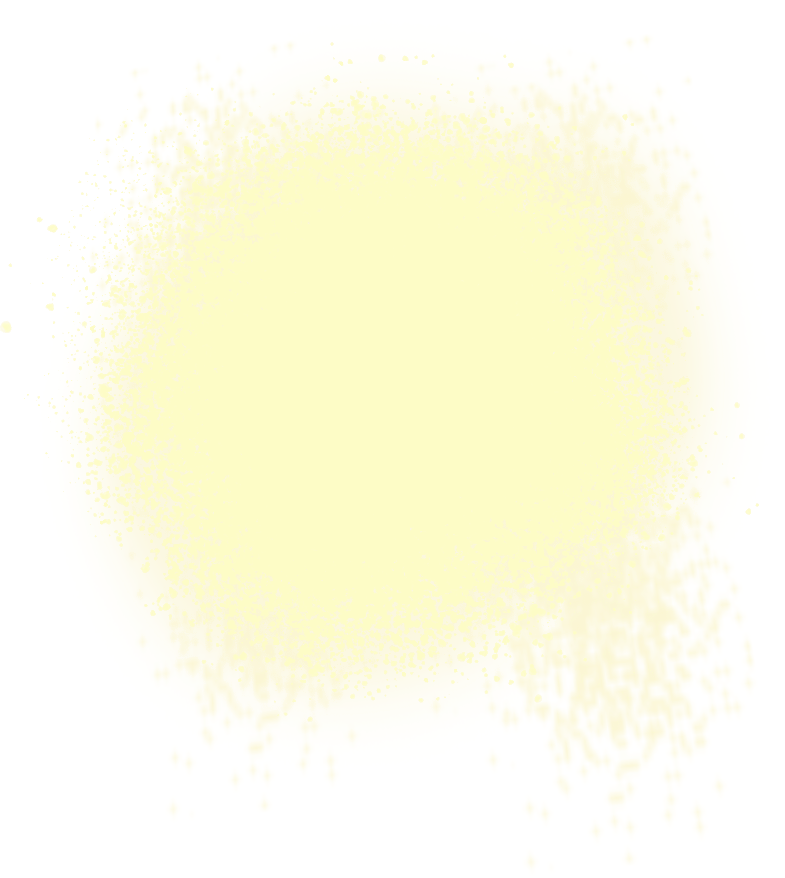
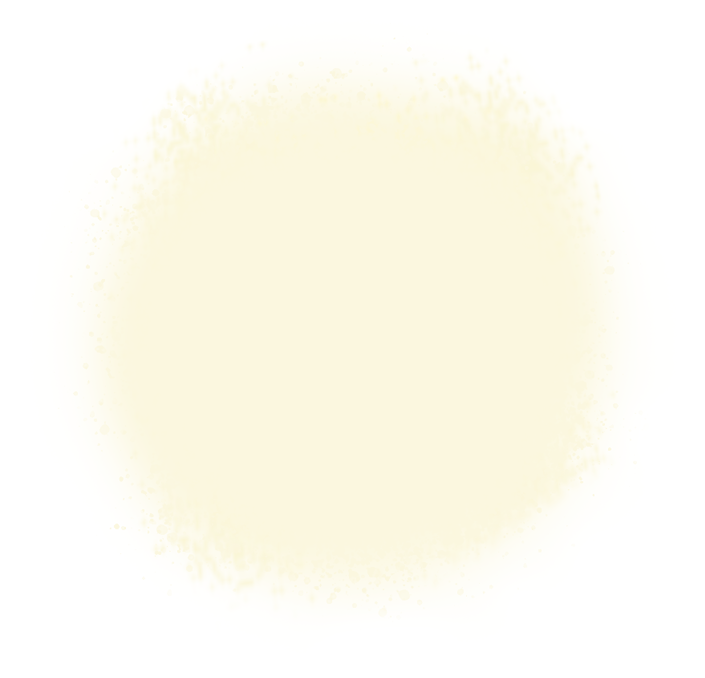
ad

diff --git a/build/index.html b/build/index.html
@@ -1,1 +1,1 @@
-<!DOCTYPE html><!DOCTYPE html><html lang="ru"><head><meta charset="UTF-8"><meta name="keywords" content="город солнца, детский сад, одесса"><meta name="description" content="Детский сад Город Солнца"><meta name="format-detection" content="telephone=no"><meta name="viewport" content="width=device-width, initial-scale=1.0"><link rel="icon" type="image/png" href="./img/favicon-32x32.png" sizes="32x32"><title>Город солнца</title><link rel="stylesheet" href="/style.css"><body><div id="fb-root"></div><script async defer crossorigin="anonymous" src="https://connect.facebook.net/ru_RU/sdk.js#xfbml=1&amp;version=v8.0" nonce="gFOp0FKI"></script><header class="header"><div class="wrapper"><div class="header-section"><div class="header-adress"><a href="#map"><img class="header-logo" src="./img/adress.png" alt="image adress"></a><div class="background"><p class="header-paragraf">г. Одесса, ул. Лядова 12</p></div></div><div class="logotips"><img class="logo_1" src="./img/logo_1.png" alt="logo"><img class="logo_2" src="./img/logo_2.png" alt="logo"></div><div class="header-adress"><img class="header-logo" src="./img/viber.png" alt="image adress"><div class="background"><p class="header-paragraf"> <a href="tel:+380983002018">+38 (098) 300 20 18</a></p></div></div></div><div class="header-logo__background"><h1 class="site-title">Город солнца<div class="star star1"><div class="star-light"></div></div><div class="star star2"><div class="star-light"></div></div><div class="star star3"><div class="star-light"></div></div></h1><h2 class="site-subtitle">Детский сад Гуманной Педагогики <br> им. Ш.А.Амонашвили</h2></div></div></header><main class="main"><div class="modal__item modal1 modal-close"><div class="modal__background"> <div class="modal__wrapper"><h2 class="modal__title">Что такое Гуманная Педагогика?</h2><p class="modal__paragraff">Гуманная Педагогика - это теория и творческая практика воспитания личности в Ребёнке. Гуманные педагоги верят, что каждый Ребёнок- это явление; его возможности безграничны и он несёт в себе определенную миссию для человечества.</p><h2 class="modal__title">Основные идеи Гуманной Педагогики:</h2><ul class="modal__list"><li class="modal__list-item">Воспитание Ребёнка взрослым, начинается с воспитания самого себя</li><li class="modal__list-item">Духовная общность воспитателя и Ребёнка</li><li class="modal__list-item">Сотрудничество и сотворчество между воспитателем, Ребёнком и родителями</li><li class="modal__list-item">Непосредственность и сердечность</li><li class="modal__list-item">Забота об облагораживании души Ребёнка</li><li class="modal__list-item">Предоставление права выбора</li><li class="modal__list-item">Руководство принципом творящего терпения в отношениях с детьми</li></ul><h2 class="modal__title">Основные аксиомы Гуманной Педагогики:</h2><ul class="modal__list"><li class="modal__list-item">Любовь воспитывается любовью</li><li class="modal__list-item">Доброта воспитывается добротой</li><li class="modal__list-item">Личность воспитывается личностью</li></ul><h2 class="modal__title">Главная цель Гуманной Педагогики: </h2><p class="modal__paragraff">Воспитание благородства и великодушия в подрастающем поколении. Процесс воспитания основывается на главных потребностях Ребёнка: в развитии, взрослении и свободе. </p><div class="modal__close-block"><button class="modal__close">Вернуться</button></div></div></div></div><div class="modal__item modal2 modal-close"><div class="modal__background"><div class="modal__wrapper"><h2 class="modal__title">Наша история</h2><p class="modal__paragraff notmargin">История появления в Одессе, детского сада Гуманной Педогогики, тесно связана с личной историей семьи Евгении и Александра Грабилиных, основателей «Города Солнца». Воспитание собственных троих детей привело к близкому знакомству с идеями Гуманной Педагогики, а в будущем и с семьёй Амонашвили. Александр и Евгения стали учениками Шалвы Александровича и закончили Высшую Школу Амонашвили.</p><p class="modal__paragraff">Погружение в духовную среду помогло осознать, что такие знания должны быть сутью педагогического процесса не только в школах, но и в детских садах, а то и в утробе матери. Именно такая цель была поставленна в октябре 2019г. на семинаре Ш. А. Амонашвили «Искусство дошкольного воспитания», куда были приглашены представители всех дошкольных учреждений г.Одессы. Очевидно, что реализовать Гуманную Педагогику в чистом виде, в педагогическом процессе, возможно только лишь, начиная с чистого листа. Именно поэтому Шалва Александрович дал благословение на открытие детского садика в нашем городе, тем людям, которые искренне верят в её силу и строят свою жизнь на основе духовно-нравственных законов.</p><div class="modal__close-block"><button class="modal__close">Вернуться</button></div></div></div></div><div class="modal__item modal4 modal-close"><div class="modal__background"><div class="modal__wrapper"><h2 class="modal__title">Для родителей !</h2><p class="modal__paragraff notmargin">В основе Гуманной Педагогики лежит треугольник сотрудничества: педагог-ребенок-родитель. Наша общая задача помочь детям найти свой путь в этой жизни и «расправив крылья», реализовать свои безграничные возможности. Мы приглашаем наших родителей на регулярные родительские встречи, где мы поднимаем насущные вопросы, связанные с самопознанием и воспитанием, вместе ищем ответы.</p><p class="modal__paragraff">Если Вы чувствуете, что основы Гуманной педагогики откликаются в сердце и Вы хотите, чтобы они стали образом жизни Вашей семьи, тогда присоединяйтесь к нашему кругу единомышленников.</p><div class="modal__registration"><a class="registration__button" href="https://forms.gle/bzNbh29GKh2hS8tA7" target="_blank">Запись на экскурсию</a></div><div class="modal__close-block"><button class="modal__close">Вернуться</button></div></div></div></div><div class="modal__item modal5 modal-close"><div class="modal__background modal__background-low"><div class="modal__wrapper"><h2 class="modal__title">Как мы познаём мир?</h2><p class="modal__paragraff">Педагоги в детском саду "Город Солнца" помогают детям познавать мир через все грани образовательного процесса: развитие речи, погружение в иностранную языковую среду, построение логико-математического мышления, увлечённость творческим процессом, участие в играх и общение не только со сверстниками, но и детками из других возрастных груп.</p><div class="modal__close-block"><button class="modal__close">Вернуться</button></div></div></div></div><div class="modal__item modal6 modal-close"><div class="modal__background modal__background-low"><div class="modal__wrapper"><h2 class="modal__title">Как мы проводим свой день</h2><p class="modal__paragraff">В детском саду «Город Солнца» вся надежда на реализацию идей Гуманной Педагогики возлагается на личность воспитателя и только потом на методическую систему. Наши дети воспитываются образами, которые мы, взрослые, им предлагаем в течении дня. Воспитатели отводят большое количество времени для индивидуальной беседы с каждым Ребёнком. Именно так зарождается духовная общность между взрослым и Ребёнком, что даёт со временем свои плоды и в образовательной работе. Ключом познавательного процесса Гуманная Педагогика принимает игру.</p><p class="modal__paragraff">«Игра - это искра, зажигающая огонёк пытливости и любознательности» (В.А. Сухомлинский)</p><div class="modal__close-block"><button class="modal__close">Вернуться</button></div></div></div></div><div class="modal__item modal7 modal-close"><div class="modal__background modal__background-low"><div class="modal__wrapper"><h2 class="modal__title">Что мы едим?</h2><p class="modal__paragraff">Питанию в нашем саду уделяется особое внимание. Мы создали современный кухонный зал для автономного, 5-ти разового питания деток в течении дня. Ежедневно дети получают полноценный рацион, с учётом всех потребностей растущего организма. У детей всегда в доступе чистая питьевая вода и обязательная фруктовая пауза по сезону. Мы учитываем состояние здоровья каждого малыша, поэтому в случае необходимости, индивидуально предоставляем альтернативное меню. Для наших детей готовит повар, вкладывая в каждую порцию частичку своей доброй души, и хорошего настроения! </p><div class="modal__close-block"><button class="modal__close">Вернуться</button></div></div></div></div><div class="modal__item modal8 modal-close"><div class="modal__background modal__background-low"><div class="modal__wrapper"><h2 class="modal__title">Ежедневно мы проводим игры:</h2><ul class="modal__list"><li class="modal__list-item">Коллективные для воспитания сотруднечества и взаимопонимания, поиска компромисса и поддержки друг друга.</li><li class="modal__list-item">Развивающие на сообразительность, логику, эрудицию, смекалку и рассудительность</li><li class="modal__list-item">Обучающие с использованием дидактического материала на базе программы «Впевнений старт», которая рекомендована Министерством Образования Украины, для детей от 3 до 6 лет</li></ul><p class="modal__paragraff">Наш день состоит из радости познания, радости дружбы и радости игры. Встречаем детей с 8:00, провожаем в 19:00</p><div class="modal__close-block"><button class="modal__close">Вернуться</button></div></div></div></div><div class="modal__item modal_comments modal-close"><div class="modal__background"> <div class="modal__wrapper"><div class="fb-plagin"><div class="fb-comments" data-href="https://www.facebook.com/%D0%93%D0%BE%D1%80%D0%BE%D0%B4-%D0%A1%D0%BE%D0%BB%D0%BD%D1%86%D0%B0-671945236591335/" data-numposts="10" data-width="100%"></div></div><div class="modal__close-block"><button class="modal__close">Вернуться</button></div></div></div></div><div class="main-background__line"><h2 class="about__city">О Городе Солнца</h2><div class="info__city--back"><div class="info__city"><ul class="info__list"><li class="info__item info__item1"><div class="info__item-bg"><img class="info__icon" src="./img/infoicon1.png" alt="icon"></div><h3 class="info__title">Что такое Гуманная Педагогика?</h3></li><li class="info__item info__item2"><div class="info__item-bg"><img class="info__icon" src="./img/infoicon2.png" alt="icon"></div><h3 class="info__title">Наша история</h3></li><li class="info__item info__item3"><div class="info__item-bg"><img class="info__icon" src="./img/infoicon3.png" alt="icon"></div><h3 class="info__title">Документы</h3></li><li class="info__item info__item4"><div class="info__item-bg"><img class="info__icon" src="./img/infoicon4.png" alt="icon"></div><h3 class="info__title">Для родителей</h3></li></ul></div></div></div><div class="main-background__line2"><a class="main-text-title info__registration-button" href="https://2gis.ua/odessa/firm/70000001044140556?m=30.740582%2C46.415018%2F17&amp;utm_source=details&amp;utm_medium=widget&amp;utm_campaign=firmsonmap" target="_blank">Приходите в гости !</a><p class="main-text">г. Одесса, ул. Лядова 12  <span class="text-none">(угол Китобойной)</span></p></div><div class="groups"><div class="shine"><div class="shine__background"></div><div class="sun"><h3 class="groups-text">Группы</h3></div><div class="cloud cloud1"><p class="cloud-title">ясли </p><p class="cloud-text">2-3 годика (до 12 человек)</p></div><div class="cloud cloud2"><p class="cloud-title">младшая  </p><p class="cloud-text">3-4 года (до 14 человек)</p></div><div class="cloud cloud3"><p class="cloud-title">средняя </p><p class="cloud-text">4-5 лет (до 14 человек)</p></div><div class="cloud cloud4"><p class="cloud-title">старшая  </p><p class="cloud-text">5-6 лет (до 16 человек)</p></div></div></div><div class="info"><div class="info__child"><div class="info__child--back"><ul class="info__child-list"><li class="info__child-item child-item1"><div class="info__child-bg"><img class="info__child-icon" src="./img/btn1.jpg" alt="облако"></div><h3 class="info__title-child">Как мы познаём мир</h3></li><li class="info__child-item child-item2"><div class="info__child-bg"><img class="info__child-icon" src="./img/btn2.jpg" alt="облако"></div><h3 class="info__title-child">Как мы проводим свой день</h3></li><li class="info__child-item child-item3"><div class="info__child-bg"><img class="info__child-icon" src="./img/btn3.jpg" alt="облако"></div><h3 class="info__title-child">Что мы едим</h3></li><li class="info__child-item child-item4"><div class="info__child-bg"><img class="info__child-icon" src="./img/btn4.jpg" alt="облако"></div><h3 class="info__title-child">Наши игры</h3></li></ul></div></div><div class="info__registration"><a class="info__registration-button" href="https://forms.gle/bzNbh29GKh2hS8tA7" target="_blank">Запись на экскурсию </a><h2 class="info__recall modal-btn_comments">Отзывы</h2><div class="info__social"><a href="https://invite.viber.com/?g2=AQAGZH5ju6hcoEkWDqceUYueTaiazZcnIYKPYzNIdQ96CYPBLs%2BnoZajJTdRGGhQ" target="_blank"><img class="social" src="./img/viber.png" alt=""></a><a href="https://www.instagram.com/gorodsolntsa_odessa/" target="_blank"><img class="social" src="./img/instagram.png" alt=""></a><a href="https://www.facebook.com/%D0%93%D0%BE%D1%80%D0%BE%D0%B4-%D0%A1%D0%BE%D0%BB%D0%BD%D1%86%D0%B0-671945236591335/" target="_black"><img class="social" src="./img/facebook.png" alt=""></a></div><h2 class="info__social--title">Приглашаем Вас в наши социальные сети</h2></div><div class="info__map" id="map"><a class="dg-widget-link" href="http://2gis.ua/odessa/firm/70000001044140556/center/30.740582,46.415018/zoom/16?utm_medium=widget-source&utm_campaign=firmsonmap&utm_source=bigMap">Посмотреть на карте Одессы</a><div class="dg-widget-link"><a href="http://2gis.ua/odessa/firm/70000001044140556/photos/70000001044140556/center/30.740582,46.415018/zoom/17?utm_medium=widget-source&utm_campaign=firmsonmap&utm_source=photos">Фотографии компании</a></div><div class="dg-widget-link"><a href="http://2gis.ua/odessa/center/30.740582,46.415018/zoom/16/routeTab/rsType/bus/to/30.740582,46.415018╎Город Солнца, частный детский сад?utm_medium=widget-source&utm_campaign=firmsonmap&utm_source=route">Найти проезд до Город Солнца, частный детский сад</a></div><script charset="utf-8" src="https://widgets.2gis.com/js/DGWidgetLoader.js"></script><script charset="utf-8">new DGWidgetLoader({"width":"100%","height":"100%","borderColor":"#a3a3a3","pos":{"lat":46.415018,"lon":30.740582,"zoom":16},"opt":{"city":"odessa"},"org":[{"id":"70000001044140556"}]});</script><noscript style="color:#c00;font-size:16px;font-weight:bold;">Виджет карты использует JavaScript. Включите его в настройках вашего браузера.</noscript></div></div></main><script src="script.js"></script></body><link href="style.css" rel="stylesheet"></head></html>
+<!DOCTYPE html><!DOCTYPE html><html lang="ru"><head><meta charset="UTF-8"><meta name="keywords" content="город солнца, детский сад, одесса"><meta name="description" content="Детский сад Город Солнца"><meta name="format-detection" content="telephone=no"><meta name="viewport" content="width=device-width, initial-scale=1.0"><link rel="icon" type="image/png" href="./img/favicon-32x32.png" sizes="32x32"><title>Город солнца</title><link rel="stylesheet" href="/style.css"><body><div id="fb-root"></div><script async defer crossorigin="anonymous" src="https://connect.facebook.net/ru_RU/sdk.js#xfbml=1&amp;version=v8.0" nonce="gFOp0FKI"></script><header class="header"><div class="wrapper"><div class="header-section"><div class="header-adress"><a href="#map"><img class="header-logo" src="./img/adress.png" alt="image adress"></a><div class="background"><p class="header-paragraf">г. Одесса, ул. Лядова 12</p></div></div><div class="logotips"><img class="logo_1" src="./img/logo_1.png" alt="logo"><img class="logo_2" src="./img/logo_2.png" alt="logo"></div><div class="header-adress"><img class="header-logo" src="./img/viber.png" alt="image adress"><div class="background"><p class="header-paragraf"> <a href="tel:+380983002018">+38 (098) 300 20 18</a></p></div></div></div><div class="header-logo__background"><h1 class="site-title">Город солнца<div class="star star1"><div class="star-light"></div></div><div class="star star2"><div class="star-light"></div></div><div class="star star3"><div class="star-light"></div></div></h1><h2 class="site-subtitle">Детский сад Гуманной Педагогики <br> им. Ш.А.Амонашвили</h2></div></div></header><main class="main"><div class="modal__item modal1 modal-close"><div class="modal__background"> <div class="modal__wrapper"><h2 class="modal__title">Что такое Гуманная Педагогика?</h2><p class="modal__paragraff">Гуманная Педагогика - это теория и творческая практика воспитания личности в Ребёнке. Гуманные педагоги верят, что каждый Ребёнок- это явление; его возможности безграничны и он несёт в себе определенную миссию для человечества.</p><h2 class="modal__title">Основные идеи Гуманной Педагогики:</h2><ul class="modal__list"><li class="modal__list-item">Воспитание Ребёнка взрослым, начинается с воспитания самого себя</li><li class="modal__list-item">Духовная общность воспитателя и Ребёнка</li><li class="modal__list-item">Сотрудничество и сотворчество между воспитателем, Ребёнком и родителями</li><li class="modal__list-item">Непосредственность и сердечность</li><li class="modal__list-item">Забота об облагораживании души Ребёнка</li><li class="modal__list-item">Предоставление права выбора</li><li class="modal__list-item">Руководство принципом творящего терпения в отношениях с детьми</li></ul><h2 class="modal__title">Основные аксиомы Гуманной Педагогики:</h2><ul class="modal__list"><li class="modal__list-item">Любовь воспитывается любовью</li><li class="modal__list-item">Доброта воспитывается добротой</li><li class="modal__list-item">Личность воспитывается личностью</li></ul><h2 class="modal__title">Главная цель Гуманной Педагогики: </h2><p class="modal__paragraff">Воспитание благородства и великодушия в подрастающем поколении. Процесс воспитания основывается на главных потребностях Ребёнка: в развитии, взрослении и свободе. </p><div class="modal__close-block"><button class="modal__close">Вернуться</button></div></div></div></div><div class="modal__item modal2 modal-close"><div class="modal__background"><div class="modal__wrapper"><h2 class="modal__title">Наша история</h2><p class="modal__paragraff notmargin">История появления в Одессе, детского сада Гуманной Педогогики, тесно связана с личной историей семьи Евгении и Александра Грабилиных, основателей «Города Солнца». Воспитание собственных троих детей привело к близкому знакомству с идеями Гуманной Педагогики, а в будущем и с семьёй Амонашвили. Александр и Евгения стали учениками Шалвы Александровича и закончили Высшую Школу Амонашвили.</p><p class="modal__paragraff">Погружение в духовную среду помогло осознать, что такие знания должны быть сутью педагогического процесса не только в школах, но и в детских садах, а то и в утробе матери. Именно такая цель была поставленна в октябре 2019г. на семинаре Ш. А. Амонашвили «Искусство дошкольного воспитания», куда были приглашены представители всех дошкольных учреждений г.Одессы. Очевидно, что реализовать Гуманную Педагогику в чистом виде, в педагогическом процессе, возможно только лишь, начиная с чистого листа. Именно поэтому Шалва Александрович дал благословение на открытие детского садика в нашем городе, тем людям, которые искренне верят в её силу и строят свою жизнь на основе духовно-нравственных законов.</p><div class="modal__close-block"><button class="modal__close">Вернуться</button></div></div></div></div><div class="modal__item modal4 modal-close"><div class="modal__background"><div class="modal__wrapper"><h2 class="modal__title">Для родителей !</h2><p class="modal__paragraff notmargin">В основе Гуманной Педагогики лежит треугольник сотрудничества: педагог-ребенок-родитель. Наша общая задача помочь детям найти свой путь в этой жизни и «расправив крылья», реализовать свои безграничные возможности. Мы приглашаем наших родителей на регулярные родительские встречи, где мы поднимаем насущные вопросы, связанные с самопознанием и воспитанием, вместе ищем ответы.</p><p class="modal__paragraff">Если Вы чувствуете, что основы Гуманной педагогики откликаются в сердце и Вы хотите, чтобы они стали образом жизни Вашей семьи, тогда присоединяйтесь к нашему кругу единомышленников.</p><div class="modal__registration"><a class="modal_registration__button" href="https://forms.gle/bzNbh29GKh2hS8tA7" target="_blank">Запись на экскурсию</a></div><div class="modal__close-block"><button class="modal__close">Вернуться</button></div></div></div></div><div class="modal__item modal5 modal-close"><div class="modal__background modal__background-low"><div class="modal__wrapper"><h2 class="modal__title">Как мы познаём мир?</h2><p class="modal__paragraff">Педагоги в детском саду "Город Солнца" помогают детям познавать мир через все грани образовательного процесса: развитие речи, погружение в иностранную языковую среду, построение логико-математического мышления, увлечённость творческим процессом, участие в играх и общение не только со сверстниками, но и детками из других возрастных груп.</p><div class="modal__close-block"><button class="modal__close">Вернуться</button></div></div></div></div><div class="modal__item modal6 modal-close"><div class="modal__background modal__background-low"><div class="modal__wrapper"><h2 class="modal__title">Как мы проводим свой день</h2><p class="modal__paragraff">В детском саду «Город Солнца» вся надежда на реализацию идей Гуманной Педагогики возлагается на личность воспитателя и только потом на методическую систему. Наши дети воспитываются образами, которые мы, взрослые, им предлагаем в течении дня. Воспитатели отводят большое количество времени для индивидуальной беседы с каждым Ребёнком. Именно так зарождается духовная общность между взрослым и Ребёнком, что даёт со временем свои плоды и в образовательной работе. Ключом познавательного процесса Гуманная Педагогика принимает игру.</p><p class="modal__paragraff">«Игра - это искра, зажигающая огонёк пытливости и любознательности» (В.А. Сухомлинский)</p><div class="modal__close-block"><button class="modal__close">Вернуться</button></div></div></div></div><div class="modal__item modal7 modal-close"><div class="modal__background modal__background-low"><div class="modal__wrapper"><h2 class="modal__title">Что мы едим?</h2><p class="modal__paragraff">Питанию в нашем саду уделяется особое внимание. Мы создали современный кухонный зал для автономного, 5-ти разового питания деток в течении дня. Ежедневно дети получают полноценный рацион, с учётом всех потребностей растущего организма. У детей всегда в доступе чистая питьевая вода и обязательная фруктовая пауза по сезону. Мы учитываем состояние здоровья каждого малыша, поэтому в случае необходимости, индивидуально предоставляем альтернативное меню. Для наших детей готовит повар, вкладывая в каждую порцию частичку своей доброй души, и хорошего настроения! </p><div class="modal__close-block"><button class="modal__close">Вернуться</button></div></div></div></div><div class="modal__item modal8 modal-close"><div class="modal__background modal__background-low"><div class="modal__wrapper"><h2 class="modal__title">Ежедневно мы проводим игры:</h2><ul class="modal__list"><li class="modal__list-item">Коллективные для воспитания сотруднечества и взаимопонимания, поиска компромисса и поддержки друг друга.</li><li class="modal__list-item">Развивающие на сообразительность, логику, эрудицию, смекалку и рассудительность</li><li class="modal__list-item">Обучающие с использованием дидактического материала на базе программы «Впевнений старт», которая рекомендована Министерством Образования Украины, для детей от 3 до 6 лет</li></ul><p class="modal__paragraff">Наш день состоит из радости познания, радости дружбы и радости игры. Встречаем детей с 8:00, провожаем в 19:00</p><div class="modal__close-block"><button class="modal__close">Вернуться</button></div></div></div></div><div class="modal__item modal_comments modal-close"><div class="modal__background"> <div class="modal__wrapper"><div class="fb-plagin"><div class="fb-comments" data-href="https://www.facebook.com/%D0%93%D0%BE%D1%80%D0%BE%D0%B4-%D0%A1%D0%BE%D0%BB%D0%BD%D1%86%D0%B0-671945236591335/" data-numposts="10" data-width="100%"></div></div><div class="modal__close-block"><button class="modal__close">Вернуться</button></div></div></div></div><div class="main-background__line"><h2 class="about__city">О Городе Солнца</h2><div class="info__city--back"><div class="info__city"><ul class="info__list"><li class="info__item info__item1"><div class="info__item-bg"><img class="info__icon" src="./img/infoicon1.png" alt="icon"></div><h3 class="info__title">Что такое Гуманная Педагогика?</h3></li><li class="info__item info__item2"><div class="info__item-bg"><img class="info__icon" src="./img/infoicon2.png" alt="icon"></div><h3 class="info__title">Наша история</h3></li><li class="info__item info__item3"><div class="info__item-bg"><img class="info__icon" src="./img/infoicon3.png" alt="icon"></div><h3 class="info__title">Документы</h3></li><li class="info__item info__item4"><div class="info__item-bg"><img class="info__icon" src="./img/infoicon4.png" alt="icon"></div><h3 class="info__title">Для родителей</h3></li></ul></div></div></div><div class="main-background__line2"><a class="main-text-title info__registration-button" href="https://2gis.ua/odessa/firm/70000001044140556?m=30.740582%2C46.415018%2F17&amp;utm_source=details&amp;utm_medium=widget&amp;utm_campaign=firmsonmap" target="_blank">Приходите в гости !</a><p class="main-text">г. Одесса, ул. Лядова 12  <span class="text-none">(угол Китобойной)</span></p></div><div class="groups"><div class="shine"><div class="shine__background"></div><div class="sun"><h3 class="groups-text">Группы</h3></div><div class="cloud cloud1"><p class="cloud-title">ясли </p><p class="cloud-text">2-3 годика (до 12 человек)</p></div><div class="cloud cloud2"><p class="cloud-title">младшая  </p><p class="cloud-text">3-4 года (до 14 человек)</p></div><div class="cloud cloud3"><p class="cloud-title">средняя </p><p class="cloud-text">4-5 лет (до 14 человек)</p></div><div class="cloud cloud4"><p class="cloud-title">старшая  </p><p class="cloud-text">5-6 лет (до 16 человек)</p></div></div></div><div class="info"><div class="info__child"><div class="info__child--back"><ul class="info__child-list"><li class="info__child-item child-item1"><div class="info__child-bg"><img class="info__child-icon" src="./img/btn1.jpg" alt="облако"></div><h3 class="info__title-child">Как мы познаём мир</h3></li><li class="info__child-item child-item2"><div class="info__child-bg"><img class="info__child-icon" src="./img/btn2.jpg" alt="облако"></div><h3 class="info__title-child">Как мы проводим свой день</h3></li><li class="info__child-item child-item3"><div class="info__child-bg"><img class="info__child-icon" src="./img/btn3.jpg" alt="облако"></div><h3 class="info__title-child">Что мы едим</h3></li><li class="info__child-item child-item4"><div class="info__child-bg"><img class="info__child-icon" src="./img/btn4.jpg" alt="облако"></div><h3 class="info__title-child">Наши игры</h3></li></ul></div></div><div class="info__registration"><a class="info__registration-button" href="https://forms.gle/bzNbh29GKh2hS8tA7" target="_blank">Запись на экскурсию </a><h2 class="info__recall modal-btn_comments">Отзывы</h2><div class="info__social"><a href="https://invite.viber.com/?g2=AQAGZH5ju6hcoEkWDqceUYueTaiazZcnIYKPYzNIdQ96CYPBLs%2BnoZajJTdRGGhQ" target="_blank"><img class="social" src="./img/viber.png" alt=""></a><a href="https://www.instagram.com/gorodsolntsa_odessa/" target="_blank"><img class="social" src="./img/instagram.png" alt=""></a><a href="https://www.facebook.com/%D0%93%D0%BE%D1%80%D0%BE%D0%B4-%D0%A1%D0%BE%D0%BB%D0%BD%D1%86%D0%B0-671945236591335/" target="_black"><img class="social" src="./img/facebook.png" alt=""></a></div><h2 class="info__social--title">Приглашаем Вас в наши социальные сети</h2></div><div class="info__map" id="map"><a class="dg-widget-link" href="http://2gis.ua/odessa/firm/70000001044140556/center/30.740582,46.415018/zoom/16?utm_medium=widget-source&utm_campaign=firmsonmap&utm_source=bigMap">Посмотреть на карте Одессы</a><div class="dg-widget-link"><a href="http://2gis.ua/odessa/firm/70000001044140556/photos/70000001044140556/center/30.740582,46.415018/zoom/17?utm_medium=widget-source&utm_campaign=firmsonmap&utm_source=photos">Фотографии компании</a></div><div class="dg-widget-link"><a href="http://2gis.ua/odessa/center/30.740582,46.415018/zoom/16/routeTab/rsType/bus/to/30.740582,46.415018╎Город Солнца, частный детский сад?utm_medium=widget-source&utm_campaign=firmsonmap&utm_source=route">Найти проезд до Город Солнца, частный детский сад</a></div><script charset="utf-8" src="https://widgets.2gis.com/js/DGWidgetLoader.js"></script><script charset="utf-8">new DGWidgetLoader({"width":"100%","height":"100%","borderColor":"#a3a3a3","pos":{"lat":46.415018,"lon":30.740582,"zoom":16},"opt":{"city":"odessa"},"org":[{"id":"70000001044140556"}]});</script><noscript style="color:#c00;font-size:16px;font-weight:bold;">Виджет карты использует JavaScript. Включите его в настройках вашего браузера.</noscript></div></div></main><script src="script.js"></script></body><link href="style.css" rel="stylesheet"></head></html>

diff --git a/build/style.css b/build/style.css
@@ -2525,7 +2525,7 @@
 	left: 0;
 	bottom: 0;
 	right: 0;
-	background-color: rgba(24, 114, 112, 0.5);
+	background-color: rgba(24, 114, 112, 0.6);
 	z-index: 100000;
 	transition: all 1s ease;
 	overflow: auto;
@@ -2601,6 +2601,16 @@
 		width: 40%;
 		padding: 0px 35px 0px 35px;
 		height: 550px;
+		overflow: auto
+}
+	}
+
+@media (max-width: 768px) {
+
+.modal__wrapper {
+		width: 70%;
+		padding: 0px 35px 0px 35px;
+		height: 750px;
 		overflow: auto
 }
 	}
@@ -2781,7 +2791,7 @@
 }
 	}
 
-.registration__button {
+.modal_registration__button {
 	display: flex;
 	justify-content: center;
 	align-items: center;
@@ -2799,18 +2809,19 @@
 
 @media (max-width: 1024px) {
 
-.registration__button {
+.modal_registration__button {
 		background: none;
 		margin: 0 20px;
 		background-color: #fdfcbd;
 		height: 60px;
-		border-radius: 60px
+		border-radius: 60px;
+		font-size: 32px
 }
 	}
 
 @media (max-width: 500px) {
 
-.registration__button {
+.modal_registration__button {
 		font-size: 24px;
 		height: 50px;
 		margin: 0 10px
@@ -2819,7 +2830,7 @@
 
 @media (max-width: 320px) {
 
-.registration__button {
+.modal_registration__button {
 		font-size: 24px;
 		height: 50px;
 		margin: 0 10px
@@ -3851,8 +3862,8 @@
 @media (max-width: 1100px) {
 
 .shine {
-    margin-top: 100px;
-    background: url("./img/shine.png") no-repeat center center
+    margin-top: 100px
+    /* background: url("./img/shine.png") no-repeat center center; */
 }
   }
 
@@ -3881,43 +3892,32 @@
 .shine__background {
   position: absolute;
   overflow: hidden;
-  width: 70%;
+  width: 60%;
   height: 800px;
   top: 50%;
   left: 50%;
   transform: translate(-50%, -50%);
   background: url("./img/shine.png") no-repeat;
   background-position: center center;
-  background-size: 50%;
+  background-size: 70%;
   -webkit-animation: shine 5s infinite;
           animation: shine 5s infinite;
-  margin-top: 50px;
-
-  /* @media (max-width: 414px) {
-    padding: 0 10px;
-  } */
+  padding-top: 50px;
 }
-
-/* animation: rotate 20s infinite; */
 
 @media (max-width: 1100px) {
 
 .shine__background {
     /* margin-top: 100px; */
-    display: none
+    /* display: none; */
+    background-size: 100%
 }
   }
 
 @media (max-width: 500px) {
 
 .shine__background {
-    /* background: none; */
-    /* justify-content: center; */
-    /* height: 800px; */
-    /* margin: -130px 0; */
-    /* margin-bottom: -120px; */
-    /* overflow: visible; */
-    /* z-index: 0; */
+    width: 60%
 }
   }
 
@@ -3970,10 +3970,11 @@
 }
 
 .sun {
-  width: 300px;
-  height: 300px;
-  background-color: #fdfcc6;
-  border-radius: 100%;
+  width: 350px;
+  height: 350px;
+  background: url("./img/sun.png") no-repeat center center;
+  /* border-radius: 100%; */
+  background-size: cover;
   display: flex;
   justify-content: center;
   align-items: center;
@@ -3985,19 +3986,22 @@
 @media (max-width: 1100px) {
 
 .sun {
-    width: 400px;
-    height: 400px;
-    -webkit-animation: none;
-            animation: none
+    width: 200px;
+    height: 200px
+    /* animation: none; */
 }
   }
 
 @media (max-width: 500px) {
 
 .sun {
-    width: 150px;
-    height: 150px
+    width: 100px;
+    height: 100px
 }
+  }
+
+@media (max-width: 320px) {
+
   }
 
 @-webkit-keyframes sun {
@@ -4031,19 +4035,19 @@
           animation: text 5s infinite;
 }
 
-@media (max-width: 500px) {
+@media (max-width: 768px) {
 
 .groups-text {
-    padding-bottom: 30px;
-    -webkit-animation: none;
-            animation: none
+    /* padding-bottom: 30px; */
+    /* animation: none; */
+    font-size: 36px
 }
   }
 
 @media (max-width: 414px) {
 
 .groups-text {
-    font-size: 40px
+    font-size: 26px
 }
   }
 

diff --git a/css/main.css b/css/main.css
@@ -306,7 +306,7 @@
 
   @media (max-width: 1100px) {
     margin-top: 100px;
-    background: url("./img/shine.png") no-repeat center center;
+    /* background: url("./img/shine.png") no-repeat center center; */
   }
 
   @media (max-width: 500px) {
@@ -329,36 +329,26 @@
 .shine__background {
   position: absolute;
   overflow: hidden;
-  width: 70%;
+  width: 60%;
   height: 800px;
   top: 50%;
   left: 50%;
   transform: translate(-50%, -50%);
   background: url("./img/shine.png") no-repeat;
   background-position: center center;
-  background-size: 50%;
+  background-size: 70%;
   animation: shine 5s infinite;
-  margin-top: 50px;
-  /* animation: rotate 20s infinite; */
+  padding-top: 50px;
 
   @media (max-width: 1100px) {
     /* margin-top: 100px; */
-    display: none;
+    /* display: none; */
+    background-size: 100%;
   }
 
   @media (max-width: 500px) {
-    /* background: none; */
-    /* justify-content: center; */
-    /* height: 800px; */
-    /* margin: -130px 0; */
-    /* margin-bottom: -120px; */
-    /* overflow: visible; */
-    /* z-index: 0; */
+    width: 60%;
   }
-
-  /* @media (max-width: 414px) {
-    padding: 0 10px;
-  } */
 }
 
 @keyframes shine {
@@ -386,24 +376,29 @@
 }
 
 .sun {
-  width: 300px;
-  height: 300px;
-  background-color: #fdfcc6;
-  border-radius: 100%;
+  width: 350px;
+  height: 350px;
+  background: url("./img/sun.png") no-repeat center center;
+  /* border-radius: 100%; */
+  background-size: cover;
   display: flex;
   justify-content: center;
   align-items: center;
   position: relative;
   animation: sun 5s infinite;
   @media (max-width: 1100px) {
-    width: 400px;
-    height: 400px;
-    animation: none;
+    width: 200px;
+    height: 200px;
+    /* animation: none; */
   }
 
   @media (max-width: 500px) {
-    width: 150px;
-    height: 150px;
+    width: 100px;
+    height: 100px;
+  }
+
+  @media (max-width: 320px) {
+
   }
 }
 
@@ -424,13 +419,14 @@
   color: #746c1d;
   animation: text 5s infinite;
 
-  @media (max-width: 500px) {
-    padding-bottom: 30px;
-    animation: none;
+  @media (max-width: 768px) {
+    /* padding-bottom: 30px; */
+    /* animation: none; */
+    font-size: 36px;
   }
 
   @media (max-width: 414px) {
-    font-size: 40px;
+    font-size: 26px;
   }
 
   @media (max-width: 320px) {

diff --git a/css/modal.css b/css/modal.css
@@ -4,7 +4,7 @@
 	left: 0;
 	bottom: 0;
 	right: 0;
-	background-color: rgba(24, 114, 112, 0.5);
+	background-color: rgba(24, 114, 112, 0.6);
 	z-index: 100000;
 	transition: all 1s ease;
 	overflow: auto;
@@ -64,6 +64,13 @@
 		width: 40%;
 		padding: 0px 35px 0px 35px;
 		height: 550px;
+		overflow: auto;
+	}
+
+	@media (max-width: 768px) {
+		width: 70%;
+		padding: 0px 35px 0px 35px;
+		height: 750px;
 		overflow: auto;
 	}
 
@@ -208,7 +215,7 @@
 	}
 }
 
-.registration__button {
+.modal_registration__button {
 	display: flex;
 	justify-content: center;
 	align-items: center;
@@ -229,6 +236,7 @@
 		background-color: #fdfcbd;
 		height: 60px;
 		border-radius: 60px;
+		font-size: 32px;
 	}
 
 	@media (max-width: 500px) {
